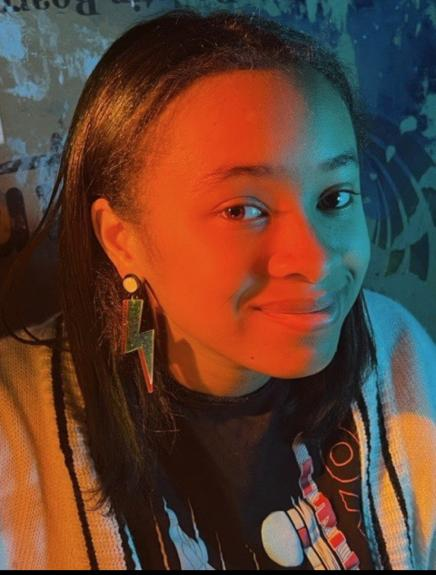
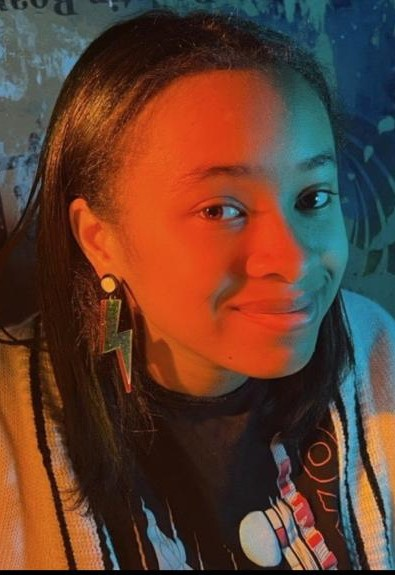
stuff

diff --git a/info.html b/info.html
@@ -25,6 +25,11 @@
 	           var elems = document.querySelectorAll('.parallax');
 	           var instances = M.Parallax.init(elems, options);
 	       });
+		   $(document).ready(function(){
+    $('.collapsible').collapsible({
+      accordion : true
+    });
+  });
 	</script>
 	<title>CSScholars - Home</title>
 </head>
@@ -78,27 +83,25 @@
 
 		<hr>
 
-
 		<div class="white-text">
-			
+		
 			<h3 id="environment">How is AI Changing the Environment?</h3>
 
 
-			<h4 class="flow-text">Though at first glance generative AI seems like an entirely digital creation,it does in fact have an impact upon the physical world (Kumar). The development and maintenance of these systems with all of the data and servers they entail has been massively energy intensive (Kumar). Data centers, or physical facilities which store and manage information for communications technology, account for a collective 2-3% of greenhouse gas emissions (Kumar). Though the environmental impact of data centers fueling AI itself has not yet been massive, as systems such as ChatGPT and Midjourney continue to gain mainstream appeal and usage the carbon footprint of AI will see exponential growth (Kumar). Given this information, it is critical to take the environmental impacts of AI into consideration when employing its usage.</h5>
+			<h4 class="flow-text">Though at first glance generative AI seems like an entirely digital creation,it does in fact have an impact upon the physical world (Kumar). The development and maintenance of these systems with all of the data and servers they entail has been massively energy intensive (Kumar). Data centers, or physical facilities which store and manage information for communications technology, account for a collective 2-3% of greenhouse gas emissions (Kumar). Though the environmental impact of data centers fueling AI itself has not yet been massive, as systems such as ChatGPT and Midjourney continue to gain mainstream appeal and usage the carbon footprint of AI will see exponential growth (Kumar). Given this information, it is critical to take the environmental impacts of AI into consideration when employing its usage.</h4>
 
 
 			<h3 id="work">AI and it's Role in the Workforce.</h3>
 
 
-			<h4 class="flow-text">Generative AI has led to a number of growing concerns and debates pertaining to its use in professional settings, particularly regarding its use in fields traditionally done by human professionals (Sammer). One extraordinarily relevant example of this is the ongoing WGA/SAG-AFTRA strike in Hollywood, in which one of the key points of debate has been the use of AI in the writer’s room for film and television production as well as to replicate actor’s likenesses (Sammer).</h5>
+			<h4 class="flow-text">Generative AI has led to a number of growing concerns and debates pertaining to its use in professional settings, particularly regarding its use in fields traditionally done by human professionals (Sammer). One extraordinarily relevant example of this is the ongoing WGA/SAG-AFTRA strike in Hollywood, in which one of the key points of debate has been the use of AI in the writer’s room for film and television production as well as to replicate actor’s likenesses (Sammer).</h4>
 
 
 			<h3 id="finance">AI and Finance</h3>
 
 
 			<h4 class="flow-text">Good question, frankly, I have no idea<br>
-			Finance as an industry has historically always invested in new technologies far ahead of most other industries, a trend which has unsurprisingly continued with AI (Desai). The need for data processing that lies at the core of most companies involved with finance lies distinctly with the capabilities of recent generative AI models, with possibilities ranging from developing short-term strategies for hedge funds to determining the most effective ways for individuals to manage assets over a given period (Desai). The abundant and fast-changing data of finance can be analyzed and managed with a speed and efficiency no human is capable of when AI is put into play (Desai). This will likely result in AI becoming a dominant force in the finance industry, determining its “winners” and “loser” with almost frightening speed (Desai).</h5>
-
+			Finance as an industry has historically always invested in new technologies far ahead of most other industries, a trend which has unsurprisingly continued with AI (Desai). The need for data processing that lies at the core of most companies involved with finance lies distinctly with the capabilities of recent generative AI models, with possibilities ranging from developing short-term strategies for hedge funds to determining the most effective ways for individuals to manage assets over a given period (Desai). The abundant and fast-changing data of finance can be analyzed and managed with a speed and efficiency no human is capable of when AI is put into play (Desai). This will likely result in AI becoming a dominant force in the finance industry, determining its “winners” and “loser” with almost frightening speed (Desai).</h4>
 	<!--
 		<div class="container black white-text">
 			<ul>
@@ -121,33 +124,30 @@
 				</li>
 			</ul>
 		</div>
-
+	-->
 
 			<h3 id="life">AI and Personal Life.</h3>
-
-
-			<h4 class="flow-text">Algorithms similar to those which make generative AI possible already fill many aspects of everyday life, and will continue to do so on a much larger scale with the rise of new programs such as ChatGPT (Mihajlovic). Predictive AI is used in everything from recommendations for search engines and streaming services to your personalized ads when using social media (Mihajlovic). Chatbots for customer service as well as entertainment, despite having already existed, continue to improve in efficiency and communicative ability over time thanks to these new programs (Mihajlovic). Generative AI is also being used to improve predictive algorithms for tools such as autofill and “smart emails” as gmail has recently begun using (Mihajlovic). THese AI programs are also useful for navigation, and determining alternative routes much more</h5>
-
+			
+			<h4 class="collapsible-body flow-text">Algorithms similar to those which make generative AI possible already fill many aspects of everyday life, and will continue to do so on a much larger scale with the rise of new programs such as ChatGPT (Mihajlovic). Predictive AI is used in everything from recommendations for search engines and streaming services to your personalized ads when using social media (Mihajlovic). Chatbots for customer service as well as entertainment, despite having already existed, continue to improve in efficiency and communicative ability over time thanks to these new programs (Mihajlovic). Generative AI is also being used to improve predictive algorithms for tools such as autofill and “smart emails” as gmail has recently begun using (Mihajlovic). THese AI programs are also useful for navigation, and determining alternative routes much more</h4>
 
 			<h3 id="education">AI and Education</h3>
 
 
-			<h4 class="flow-text">Generative AI has become the center of many debates in the world of academia, particularly as it pertains to the ideas of plagiarism and defining “learning” in a post-AI world (UNESCO). While some educators have expressed growing concerns over AI being abused by students to generate plagiarized work, others have begun to advocate for its use in the realms of education (UNESCO). An increasingly large call has been made to adopt a “human-centered” approach to the usage of AI in education, with students and teachers alike utilizing it as a tool to enhance their own works and ease searches for information and data as opposed to using it as a replacement for developing original work (UNESCO). Some believe that the use of AI in education will better prepare students for a world where it is becoming an increasingly dominant tool, as well as equipping them to develop informed opinions on issues of human rights and human-machine relationships as these AI models continue to become more advanced. Global education policy makers are having these debates even now (UNESCO).</h5>
+			<h4 class="flow-text">Generative AI has become the center of many debates in the world of academia, particularly as it pertains to the ideas of plagiarism and defining “learning” in a post-AI world (UNESCO). While some educators have expressed growing concerns over AI being abused by students to generate plagiarized work, others have begun to advocate for its use in the realms of education (UNESCO). An increasingly large call has been made to adopt a “human-centered” approach to the usage of AI in education, with students and teachers alike utilizing it as a tool to enhance their own works and ease searches for information and data as opposed to using it as a replacement for developing original work (UNESCO). Some believe that the use of AI in education will better prepare students for a world where it is becoming an increasingly dominant tool, as well as equipping them to develop informed opinions on issues of human rights and human-machine relationships as these AI models continue to become more advanced. Global education policy makers are having these debates even now (UNESCO).</h4>
 
 
 			<h3 id="cybersecurity">AI and Cybersecurity</h3>
 
 
-			<h4 class="flow-text">AI poses risks and boons to the nature of cybersecurity in equal measure (Ravichandran). Hackers have already begun using it to more easily generate malicious code, as well as boosting the skills of novices at a much more rapid pace (Ravichandran). It has also allowed for the development of starter kits and subscription services that train individuals without any hacking experience to be able to create malicious code of frighteningly high quality (Ravichandran). Hackers have also utilized these tools for social engineering, developing more believable phishing emails as well as more enticing links that lead to malware (Ravichandran). To the contrary, Cybersecurity developers have also been able to use these tools to defend against hackers (Ravichandran). AI creates significantly harder to break encryptions as well as training humans to create more secure sites and boosting the security of pre-existing ones (Ravichandran). AI has also been used to provide continuous monitoring for various systems, as well as identifying false positives, both things which most human analysts struggle with (Ravichandran). AI is shaping up to have a massive impact on both sides of the cybersecurity world (Ravichandran).</h5>
+			<h4 class="flow-text">AI poses risks and boons to the nature of cybersecurity in equal measure (Ravichandran). Hackers have already begun using it to more easily generate malicious code, as well as boosting the skills of novices at a much more rapid pace (Ravichandran). It has also allowed for the development of starter kits and subscription services that train individuals without any hacking experience to be able to create malicious code of frighteningly high quality (Ravichandran). Hackers have also utilized these tools for social engineering, developing more believable phishing emails as well as more enticing links that lead to malware (Ravichandran). To the contrary, Cybersecurity developers have also been able to use these tools to defend against hackers (Ravichandran). AI creates significantly harder to break encryptions as well as training humans to create more secure sites and boosting the security of pre-existing ones (Ravichandran). AI has also been used to provide continuous monitoring for various systems, as well as identifying false positives, both things which most human analysts struggle with (Ravichandran). AI is shaping up to have a massive impact on both sides of the cybersecurity world (Ravichandran).</h4>
 
 
 			<h3 id="art">AI and Art</h3>
 
 
-			<h4 class="flow-text">One of the largest debates about generative AI has been its usage in developing artwork (Mineo). Many have questioned whether these images even constitute artwork, given that they are not created by human artists (Mineo). These images also raise questions about ethics and copyright, given that AI must be trained on some kind of input in order to be able to generate these works (Mineo). Thus, the question arises whether AI being trained on copyrighted works should be considered an infringement of the aforementioned copyright. From a more philosophical standpoint, there have been concerns that using AI in this manner will prove detrimental to human culture on a larger scale, given that AI is at most only capable of mimicking pre-existing work and does not possess the human emotion, innovation, and adaptability that results in the creation of many new works. Most AI art work is currently a collection of stitched together visual tropes and conventions, and has not advanced to a point of significant originality (Mineo). Concerns have been raised, however, that this state is not far off given its rapid development (Mineo). AI in art poses risks for artists and consumers alike (Mineo).</h5>
+			<h4 class="flow-text">One of the largest debates about generative AI has been its usage in developing artwork (Mineo). Many have questioned whether these images even constitute artwork, given that they are not created by human artists (Mineo). These images also raise questions about ethics and copyright, given that AI must be trained on some kind of input in order to be able to generate these works (Mineo). Thus, the question arises whether AI being trained on copyrighted works should be considered an infringement of the aforementioned copyright. From a more philosophical standpoint, there have been concerns that using AI in this manner will prove detrimental to human culture on a larger scale, given that AI is at most only capable of mimicking pre-existing work and does not possess the human emotion, innovation, and adaptability that results in the creation of many new works. Most AI art work is currently a collection of stitched together visual tropes and conventions, and has not advanced to a point of significant originality (Mineo). Concerns have been raised, however, that this state is not far off given its rapid development (Mineo). AI in art poses risks for artists and consumers alike (Mineo).</h4>
 		</div>
 	</div>
--->
 	
 	<!--Footer-->
 	<div class="container">

diff --git a/about.html b/about.html
@@ -90,122 +90,122 @@
 			</div>
 
 
-			<div class="row flow-text" id="about1">
-				<div class="col s6"><a href=""><img height="auto" src="/img/jordyn_headshot.jpeg" width="50%"></a>
+			<div class="row" id="about1">
+				<div class="col s6"><a href=""><img height="auto" src="/img/jordyn_headshot.jpeg" width="50%" class="headshot responsive-img"></a>
 				</div>
 
 
 				<div class="col s6 white-text">
-					<h3>Jordyn Pryor</h3>
+					<h1 class="flow-text">Jordyn Pryor</h1>
 
 
-					<a href="https://miamioh.edu/cca/departments/emerging-technology-in-business-and-design/games-and-simulation/index.html" class="blue-text text-lighten-3" :hover><h3>Games + Simulation</h3></a>
+					<a href="https://miamioh.edu/cca/departments/emerging-technology-in-business-and-design/games-and-simulation/index.html" class="blue-text text-lighten-3" :hover><h1 class="flow-text">Games + Simulation</h1></a>
 
 
-					<h3>(618) 900-5578</h3>
+					<h1 class="flow-text">(618) 900-5578</h1>
 
 
-					<h3>pryorja2@miamioh.edu</h3>
+					<h1 class="flow-text">pryorja2@miamioh.edu</h1>
 				</div>
 			</div>
 
 
-			<div class="row flow-text" id="about2">
+			<div class="row" id="about2">
 				<div class="col s6 white-text">
-					<h3>Sean Alexander</h3>
+					<h1 class="flow-text">Sean Alexander</h1>
 
 
-					<a href="https://programs.miamioh.edu/program/emerging-technology-in-business-and-design-ba/" class="blue-text text-lighten-3" :hover><h3>ETBD</a> | <a href ="https://miamioh.edu/cas/departments/psychology/index.html" class="blue-text text-lighten-3" :hover>Pyshcology</h3></a>
+					<a href="https://programs.miamioh.edu/program/emerging-technology-in-business-and-design-ba/" class="blue-text text-lighten-3" :hover><h1 class="flow-text">ETBD</a> | <a href ="https://miamioh.edu/cas/departments/psychology/index.html" class="blue-text text-lighten-3" :hover>Pyshcology</h1></a>
 
 
-					<h3>(425) 777-5352</h3>
+					<h1 class="flow-text">(425) 777-5352</h1>
 
 
-					<h3>alexansd@miamioh.edu</h3>
+					<h1 class="flow-text">alexansd@miamioh.edu</h1>
 				</div>
 
 
-				<div class="col s6"><a href=""><img height="auto" src="/img/sean_headshot.jpg" width="50%"></a>
+				<div class="col s6"><a href=""><img height="auto" src="/img/sean_headshot.jpg" width="50%" class="headshot responsive-img"></a>
 				</div>
 			</div>
 
 
-			<div class="row flow-text" id="about3">
-				<div class="col s6"><a href=""><a href="https://www.linkedin.com/in/janespelman/" class="blue-text text-lighten-3" :hover><img height="auto" src="img/jane_headshot.jpg" width="50%"></a>
+			<div class="row" id="about3">
+				<div class="col s6"><a href=""><a href="https://www.linkedin.com/in/janespelman/" class="blue-text text-lighten-3" :hover><img height="auto" src="img/jane_headshot.jpg" width="50%" class="headshot responsive-img"></a>
 				</div>
 
 
 				<div class="col s6 white-text">
-					<h3>Jane Spelman</h3>
+					<h1 class="flow-text">Jane Spelman</h1>
 
 
-					<a href="https://programs.miamioh.edu/program/emerging-technology-in-business-and-design-ba/" class="blue-text text-lighten-3" :hover><h3>ETBD</h3></a>
+					<a href="https://programs.miamioh.edu/program/emerging-technology-in-business-and-design-ba/" class="blue-text text-lighten-3" :hover><h1 class="flow-text">ETBD</h1></a>
 
 
-					<h3>(614) 758-3448</h3>
+					<h1 class="flow-text">(614) 758-3448</h1>
 
 
-					<h3>spelmajm@miamioh.edu</h3>
+					<h1 class="flow-text">spelmajm@miamioh.edu</h1>
 				</div>
 			</div>
 
 
-			<div class="row flow-text" id="about4">
+			<div class="row" id="about4">
 				<div class="col s6 white-text">
-					<h3>Alex Abreu</h3>
+					<h1 class="flow-text">Alex Abreu</h1>
 
 
-					<a href="https://miamioh.edu/cca/departments/emerging-technology-in-business-and-design/games-and-simulation/index.html" class="blue-text text-lighten-3" :hover><h3>Games + Simulation</h3></a>
+					<a href="https://miamioh.edu/cca/departments/emerging-technology-in-business-and-design/games-and-simulation/index.html" class="blue-text text-lighten-3" :hover><h1 class="flow-text">Games + Simulation</h1></a>
 
 
-					<h3>(724) 825-1008</h3>
+					<h1 class="flow-text">(724) 825-1008</h1>
 
 
-					<h3>abreuaf@miamioh.edu</h3>
+					<h1 class="flow-text">abreuaf@miamioh.edu</h1>
 				</div>
 
 
-				<div class="col s6"><a href=""><img height="auto" src="/img/alex_headshot.jpg" width="50%"></a>
+				<div class="col s6"><a href=""><img height="auto" src="/img/alex_headshot.jpg" width="50%" class="headshot responsive-img"></a>
 				</div>
 			</div>
 
 
-			<div class="row flow-text" id="about5">
-				<div class="col s6"><a href=""><img height="auto" src="img/garland_headshot.jpg" width="50%"></a>
+			<div class="row" id="about5">
+				<div class="col s6"><a href=""><img height="auto" src="img/garland_headshot.jpg" width="50%" class="headshot responsive-img"></a>
 				</div>
 
 
 				<div class="col s6 white-text">
-					<h3>Garland Weaver</h3>
+					<h1 class="flow-text">Garland Weaver</h1>
 
 
-					<a href="https://miamioh.edu/cca/departments/emerging-technology-in-business-and-design/games-and-simulation/index.html" class="blue-text text-lighten-3" :hover><h3>Games + Simulation</a> | <a href="https://miamioh.edu/cca/departments/theatre/index.html" class="blue-text text-lighten-3" :hover>Theatre</h3></a>
+					<a href="https://miamioh.edu/cca/departments/emerging-technology-in-business-and-design/games-and-simulation/index.html" class="blue-text text-lighten-3" :hover><h1 class="flow-text">Games + Simulation</a> | <a href="https://miamioh.edu/cca/departments/theatre/index.html" class="blue-text text-lighten-3" :hover>Theatre</h1></a>
 
 
-					<h3>(937) 733-8819</h3>
+					<h1 class="flow-text">(937) 733-8819</h1>
 
 
-					<h3>weavergr@miamioh.edu</h3>
+					<h1 class="flow-text">weavergr@miamioh.edu</h1>
 				</div>
 			</div>
 
 
-			<div class="row flow-text" id="about6">
+			<div class="row" id="about6">
 				<div class="col s6 white-text">
-					<h3>Sam Bryant</h3>
+					<h1 class="flow-text">Sam Bryant</h1>
 
 
-					<a href="https://miamioh.edu/cca/departments/emerging-technology-in-business-and-design/games-and-simulation/index.html" class="blue-text text-lighten-3" :hover><h3>Games + Simulation</h3></a>
+					<a href="https://miamioh.edu/cca/departments/emerging-technology-in-business-and-design/games-and-simulation/index.html" class="blue-text text-lighten-3" :hover><h1 class="flow-text">Games + Simulation</h1></a>
 
 
-					<h3>(937) 241-0012</h3>
+					<h1 class="flow-text">(937) 241-0012</h1>
 
 
-					<h3>bryantsp@miamioh.edu</h3>
+					<h1 class="flow-text">bryantsp@miamioh.edu</h1>
 				</div>
 
 
-				<div class="col s6"><a href=""><img height="auto" src="/img/sam_headshot.jpg" width="50%"></a>
+				<div class="col s6"><a href=""><img height="auto" src="/img/sam_headshot.jpg" width="50%" class="headshot responsive-img"></a>
 				</div>
 			</div>
 		</section>

diff --git a/contact.html b/contact.html
@@ -25,7 +25,20 @@
 	           var elems = document.querySelectorAll('.parallax');
 	           var instances = M.Parallax.init(elems, options);
 	       });
-	</script>
+		</script>
+		   <!--function initialize() {
+
+				var map = new google.maps.Map(document.getElementById("map-canvas"), mapOptions);
+
+				// Resize stuff...
+				google.maps.event.addDomListener(window, "resize", function() {
+  					var center = map.getCenter();
+  					google.maps.event.trigger(map, "resize");
+  					map.setCenter(center); 
+				});
+
+			}
+	</script>-->
 	<title>CSScholars - Home</title>
 </head>
 <body class="black">
@@ -81,7 +94,9 @@
 	<h5 class="white-text">(614) 758-3448</h5>
 	<!--Location-->
 	<h5 class="white-text">Miami University, Oxford, Ohio:</h5>
-	<iframe allowfullscreen height="450" src="https://www.google.com/maps/embed?pb=!1m18!1m12!1m3!1d24625.374827056843!2d-84.7705796485688!3d39.510610856140616!2m3!1f0!2f0!3f0!3m2!1i1024!2i768!4f13.1!3m3!1m2!1s0x88403c490fb6d3ad%3A0x1d5080263c547b36!2sMiami%20University%2C%20Oxford%2C%20OH%2045056!5e0!3m2!1sen!2sus!4v1696125808445!5m2!1sen!2sus" width="800" style="border:0;"></iframe>
+	<div class="map">
+		<iframe allowfullscreen src="https://www.google.com/maps/embed?pb=!1m18!1m12!1m3!1d24625.374827056843!2d-84.7705796485688!3d39.510610856140616!2m3!1f0!2f0!3f0!3m2!1i1024!2i768!4f13.1!3m3!1m2!1s0x88403c490fb6d3ad%3A0x1d5080263c547b36!2sMiami%20University%2C%20Oxford%2C%20OH%2045056!5e0!3m2!1sen!2sus!4v1696125808445!5m2!1sen!2sus" style="border:0;"></iframe>
+	</div>
 	</div>
 	<div class="container">
 		<br>
@@ -91,11 +106,12 @@
 				<form class="col s12">
 				  <div class="row">
 					<div class="input-field col s6">
-					  <i class="material-icons white-text prefix">account_circle</i>
+					  <i class="material-icons white-text prefix">person</i>
 					  <input id="icon_prefix" type="text" class="validate">
 					  <label for="icon_prefix">First Name</label>
 					</div>
 			<div class="input-field col s6">
+				<i class="material-icons white-text prefix">people</i>
 			  <input id="last_name" type="text" class="validate">
 			  <label for="last_name">Last Name</label>
 			</div>

diff --git a/index.html b/index.html
@@ -40,6 +40,35 @@
 <body class="black">
 	<!--Header-->
 	<header>
+		<!--Test
+		<script>
+			$(document).ready(function(){
+    			$('.sidenav').sidenav();
+  			});
+		</script>
+
+		<nav>
+			<div class="nav-wrapper">
+			  <a href="#!" class="brand-logo">Logo</a>
+			  <a href="#" data-target="mobile-demo" class="sidenav-trigger"><i class="material-icons">menu</i></a>
+			  <ul id="nav-mobile" class="right hide-on-med-and-down">
+				<li class="active"><a href="index.html">Home</a></li>
+				<li><a href="info.html">Information</a></li>
+				<li><a href="about.html">About Us</a></li>
+				<li><a href="faq.html">FAQ</a></li>
+				<li><a href="contact.html">Contact Us</a></li>
+			  </ul>
+			</div>
+		  </nav>
+
+		  <ul class="sidenav" id="mobile-demo">
+			<li class="active"><a href="index.html">Home</a></li>
+			<li><a href="info.html">Information</a></li>
+			<li><a href="about.html">About Us</a></li>
+			<li><a href="faq.html">FAQ</a></li>
+			<li><a href="contact.html">Contact Us</a></li>
+		  </ul>
+		  End Test-->
 		<nav class="blue lighten-3">
 			<div class="nav-wrapper">
 				<a class="brand-logo" href="index.html"><h5 class="black-text">CSScholars</h5></a><a class="sidenav-trigger dropdown-trigger" data-activates="mobile-dropdown" href="#"><i class="material-icons black-text activator">menu</i></a>

diff --git a/materialize/css/materialize.min.css b/materialize/css/materialize.min.css
@@ -4551,7 +4551,7 @@ body.keyboard-focused .dropdown-content li:focus {
 	-webkit-tap-highlight-color: transparent;
 	line-height: 1.5;
 	padding: 1rem;
-	background-color: #fff;
+	background-color: #000;
 	border-bottom: 1px solid #ddd
 }
 .collapsible-header:focus {
@@ -4590,14 +4590,14 @@ body.keyboard-focused .dropdown-content li:focus {
 	padding: 0 16px
 }
 .sidenav .collapsible-header:hover, .sidenav.fixed .collapsible-header:hover {
-	background-color: rgba(0, 0, 0, 0.05)
+	background-color: #000
 }
 .sidenav .collapsible-header i, .sidenav.fixed .collapsible-header i {
 	line-height: inherit
 }
 .sidenav .collapsible-body, .sidenav.fixed .collapsible-body {
 	border: 0;
-	background-color: #fff
+	background-color: #000
 }
 .sidenav .collapsible-body li a, .sidenav.fixed .collapsible-body li a {
 	padding: 0 23.5px 0 31px

diff --git a/materialize/css/materialize.css b/materialize/css/materialize.css
@@ -4880,7 +4880,7 @@ body.keyboard-focused .dropdown-content li:focus {
 }
 .sidenav .collapsible-body, .sidenav.fixed .collapsible-body {
 	border: 0;
-	background-color: #fff;
+	background-color: #000;
 }
 .sidenav .collapsible-body li a, .sidenav.fixed .collapsible-body li a {
 	padding: 0 23.5px 0 31px;

diff --git a/main.css b/main.css
@@ -11,8 +11,8 @@ nav {
 }
 
 .headshot {
-	width: 800px;
-	height: auto;
+	width: 400px;
+	height: 600px;
 }
 
 div.sticky {
@@ -25,6 +25,7 @@ div.sticky {
   a :hover {
 	opacity: 0.5;
   }
+
 /*Image Gallery*/
 
 div.gallery {
